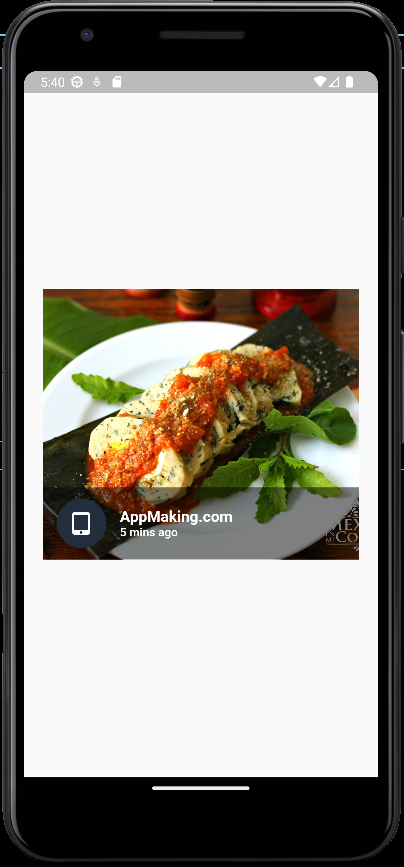
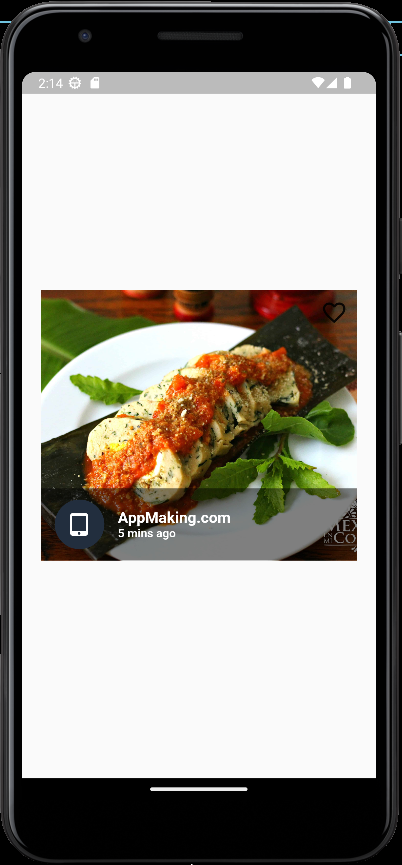
little correction to practice 17

diff --git a/lib/screens/practice_17.dart b/lib/screens/practice_17.dart
@@ -20,6 +20,16 @@ class Practice17 extends StatelessWidget {
                         fit: BoxFit.cover),
                   ),
                   Align(
+                    alignment: Alignment.topRight,
+                    child: Container(
+                      margin: const EdgeInsets.all(10),
+                      child: const Icon(
+                      Icons.favorite_border,
+                      size: 30,
+                    ),
+                    )
+                  ),
+                  Align(
                     alignment: Alignment.bottomCenter,
                     child: Container(
                       height: 80,

diff --git a/lib/main.dart b/lib/main.dart
@@ -37,7 +37,7 @@ class MyApp extends StatelessWidget {
       theme: ThemeData(
         primarySwatch: Colors.blue,
       ),
-      home: Practice22(),
+      home: Practice17(),
     );
   }
 }
